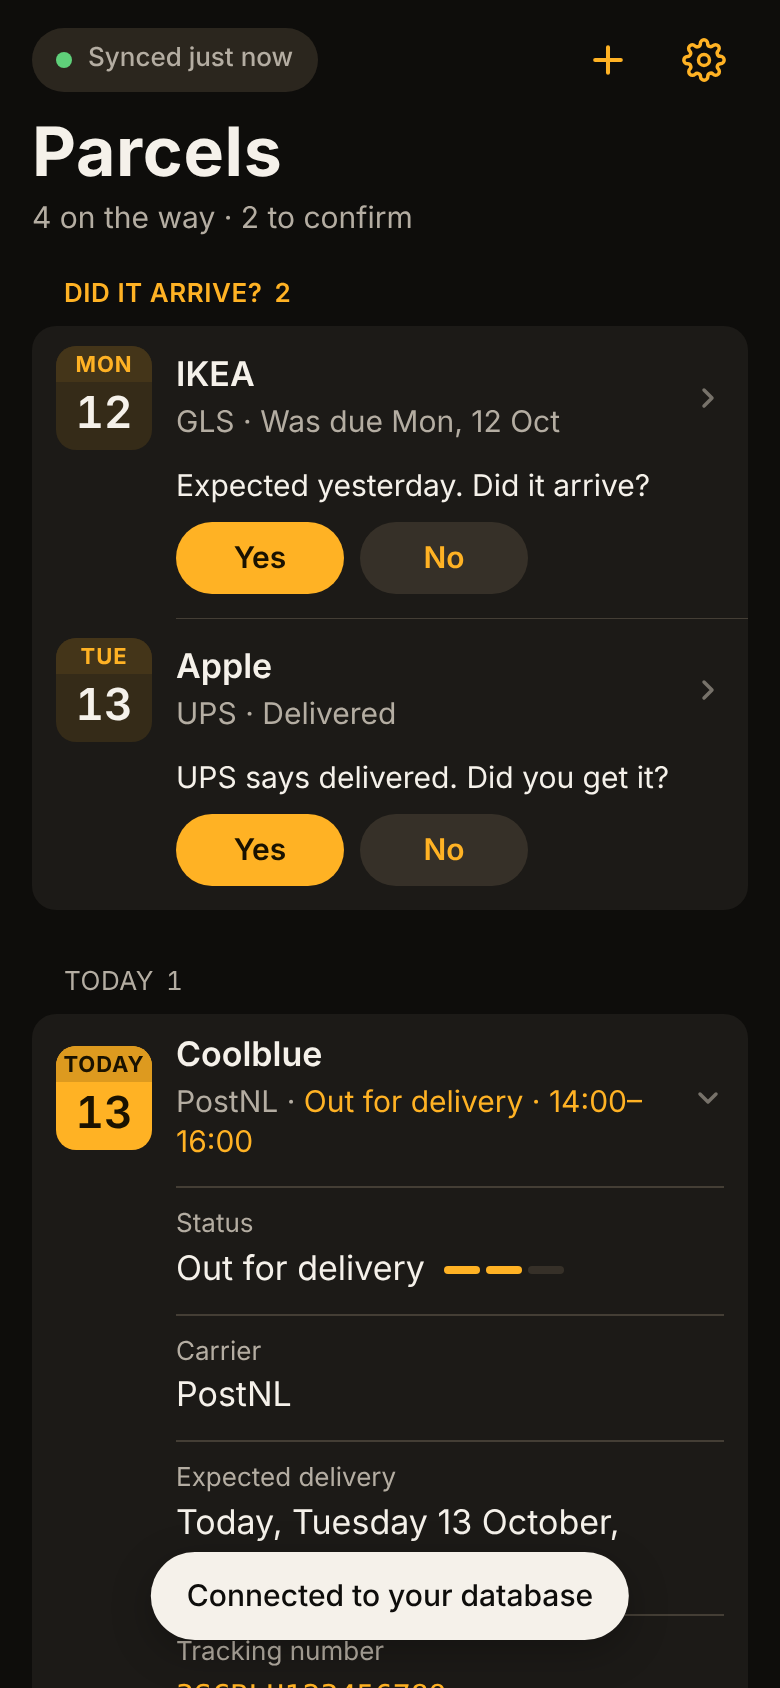
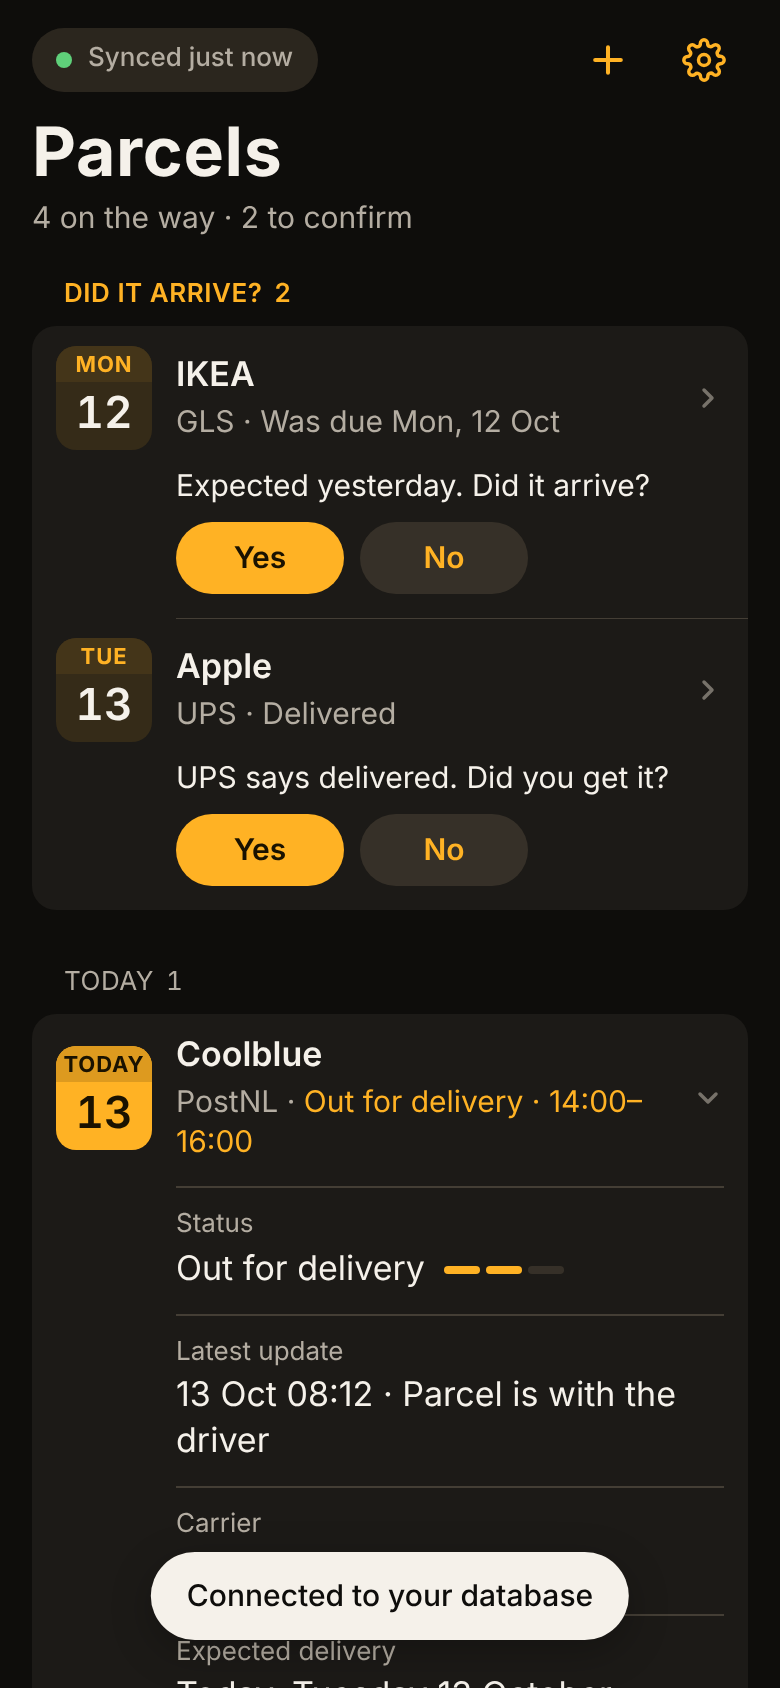
Follow carriers through 17TRACK
- Optional TRACK17_KEY: an hourly syncTracking trigger registers each open
  parcel with 17TRACK once (registration is what spends quota) and then
  reads its status, estimated delivery date/window and latest event
- Carrier news follows the email rules: status only moves forward and
  nothing changes once the owner has answered "did it arrive?"
- New tracking column, shown in the app as "Latest update"
- checkTracking() logs 17TRACK's raw answer for a number, to verify the
  field mapping against a live account
- README: 17TRACK setup and quota notes

Claude-Session: https://claude.ai/code/session_01FPgYyKeFreHuQdtpbAjW5h

diff --git a/app.js b/app.js
@@ -1,6 +1,6 @@
 import { CARRIERS, extractPackages, guessCarrier, trackingUrl } from './parser.js';
 
-const VERSION = '2.2.0';
+const VERSION = '2.3.0';
 const KEY = 'parcels.v2';
 const OLD_KEY = 'parcels.v1';
 const STATUSES = [
@@ -33,6 +33,7 @@ function normalize(p) {
     confirmed: p.confirmed === 'yes' || p.confirmed === 'no' ? p.confirmed : '',
     source: p.source || 'manual', createdAt: Number(p.createdAt) || Date.now(), updatedAt: Number(p.updatedAt) || Date.now(),
     deliveredAt: Number(p.deliveredAt) || '', deleted: p.deleted === true || p.deleted === 'true' || p.deleted === 'TRUE',
+    tracking: p.tracking || '', // latest carrier event, filled in by the script's 17TRACK sync
   };
 }
 
@@ -315,6 +316,7 @@ function row(p, kind, today) {
         <dl class="facts">
           <dt>Status</dt>
           <dd><span class="track"><span class="track-steps" aria-hidden="true">${STATUSES.map((_, s) => `<i class="${s <= step ? 'on' : ''}"></i>`).join('')}</span>${esc(statusLabel)}</span></dd>
+          ${p.tracking ? `<dt>Latest update</dt><dd>${esc(p.tracking)}</dd>` : ''}
           <dt>Carrier</dt><dd>${esc(carrierName(p) === 'Other' ? 'Unknown' : carrierName(p))}</dd>
           <dt>Expected delivery</dt><dd>${esc(etaText(p))}</dd>
           <dt>Tracking number</dt>

diff --git a/sw.js b/sw.js
@@ -1,5 +1,5 @@
 // Offline shell. Bump VERSION whenever app files change so phones pick up the new build.
-const VERSION = 'parcels-v2.2.0';
+const VERSION = 'parcels-v2.3.0';
 const SHELL = ['./', 'index.html', 'styles.css', 'app.js', 'parser.js', 'manifest.webmanifest',
   'icons/icon-192.png', 'icons/apple-touch-icon.png'];
 

diff --git a/README.md b/README.md
@@ -41,6 +41,7 @@ Use a **private/incognito window** signed in **only** as `littlehelper689@gmail.
 | `ALLOWED_SENDERS` | **Required.** Your main email address (comma-separate several). Mail from any other address is ignored, so strangers can't add parcels. If it's empty, nothing is read. |
 | `ANTHROPIC_API_KEY` | *Recommended.* A key from [console.anthropic.com](https://console.anthropic.com). Lets Claude read messy emails, item names and dates written in prose. |
 | `CLAUDE_MODEL` | *Optional.* Defaults to `claude-opus-5-5`. `claude-haiku-5-5` is much cheaper and fine for this. |
+| `TRACK17_KEY` | *Optional.* A [17TRACK API](https://api.17track.net) key. The script then checks each open parcel with the carrier every hour, so delivery-time changes, "out for delivery" and "delivered" show up even when no email says so. See [Live carrier tracking](#live-carrier-tracking-17track). |
 
 Click **Save script properties**.
 
@@ -85,6 +86,19 @@ The execution log shows your **token**. You can find it again later under **Proj
   → **Create filter** → tick **Forward it to** littlehelper689 → **Create filter**.
 
 The script checks littlehelper689 every 5 minutes. It labels mail it used `Parcels/Logged` and mail without a tracking number `Parcels/No tracking`. The app syncs when you open it and every 2 minutes while it's open. Tap the sync pill to sync right away.
+
+### Live carrier tracking (17TRACK)
+
+Emails only tell the app what the shop wrote at the time. To follow the carrier itself (PostNL moving your delivery to tomorrow 10:00–12:30, Japan Post handing over to PostNL, "delivered"):
+
+1. Sign up at [api.17track.net](https://api.17track.net) → **Settings → Security → Access Key** → copy the key.
+2. In the script: **Project Settings → Script properties → Add** `TRACK17_KEY` = that key → **Save script properties**.
+3. Paste the latest `Code.gs` and run **`setup`** again. It adds an hourly `syncTracking` trigger and keeps your token and Sheet.
+4. Optional check: in the function menu pick **`checkTracking`** → **Run**. The log shows 17TRACK's raw answer for your first open parcel.
+
+**Quota:** 17TRACK counts each tracking number you *register*; checking it afterwards is free. The script registers each open parcel once (not delivered, not answered, under 90 days old). The free plan's allowance is small (around 100 numbers; check their pricing page), which is plenty for personal use.
+
+The expanded parcel then shows **Latest update** (e.g. "13 Oct 16:40 · New delivery time: tomorrow between 10:00 and 12:30") and the date, time window and status follow the carrier. Once you've answered "Did it arrive?", the carrier can no longer change that parcel.
 
 ---
 
